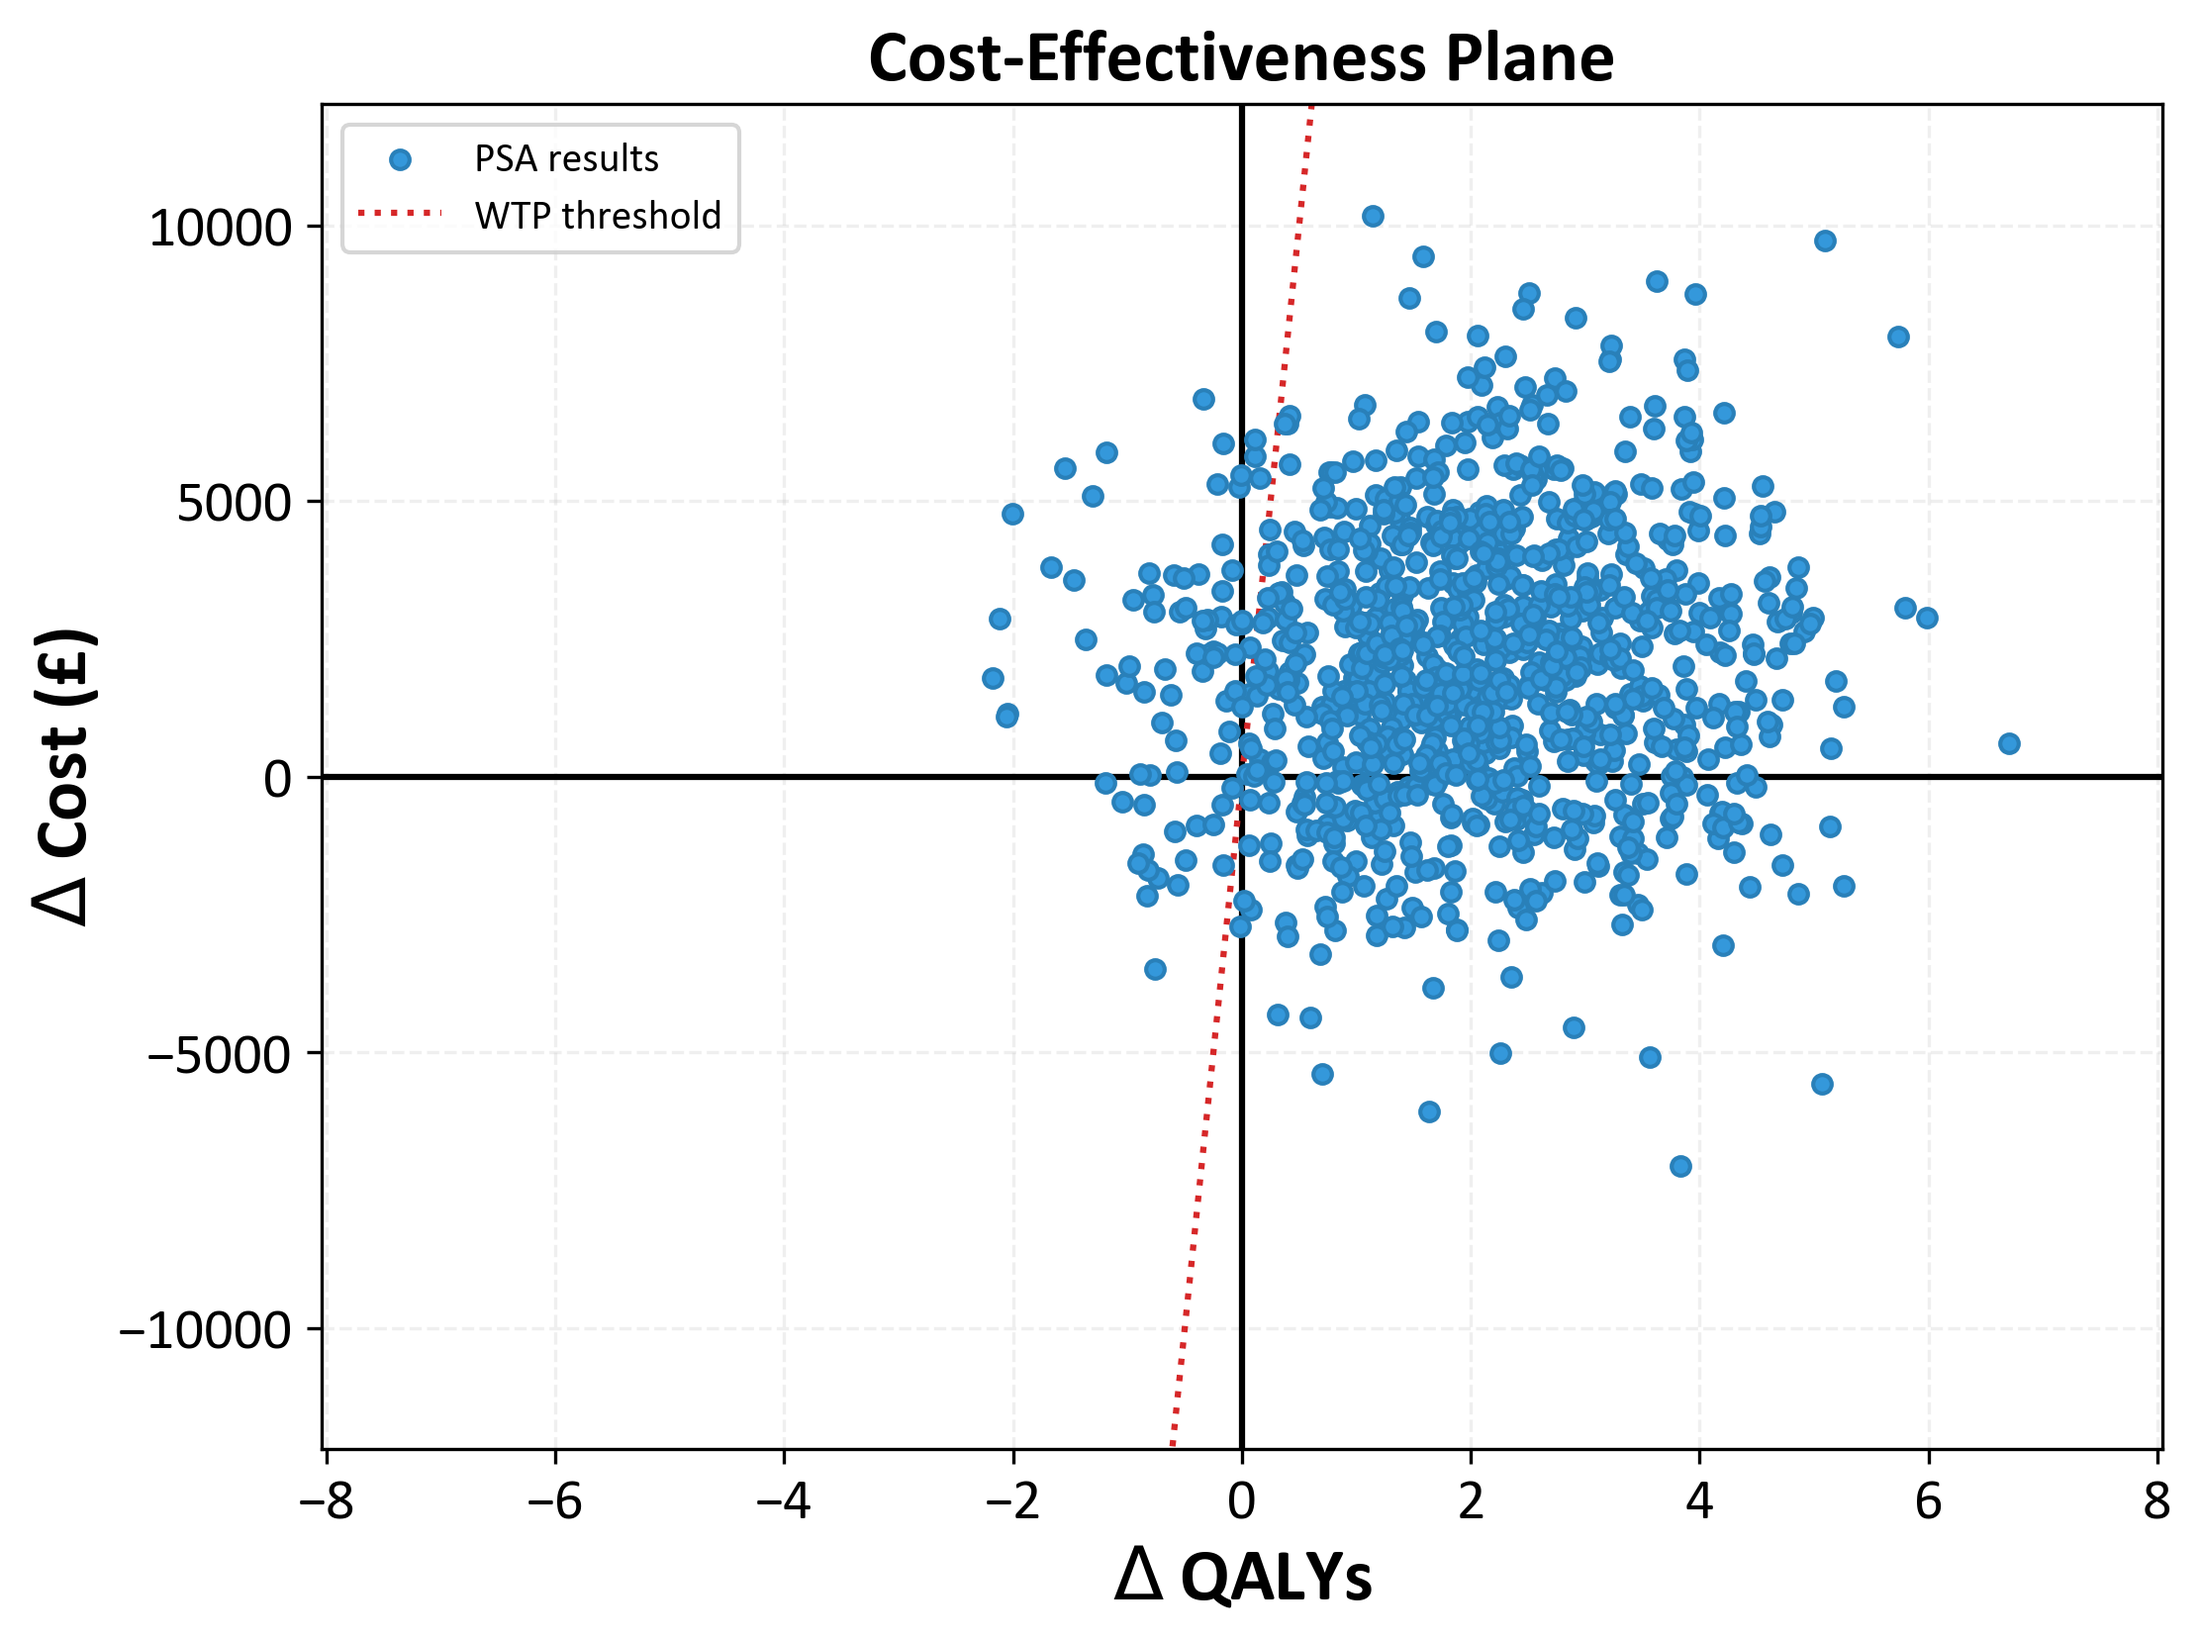
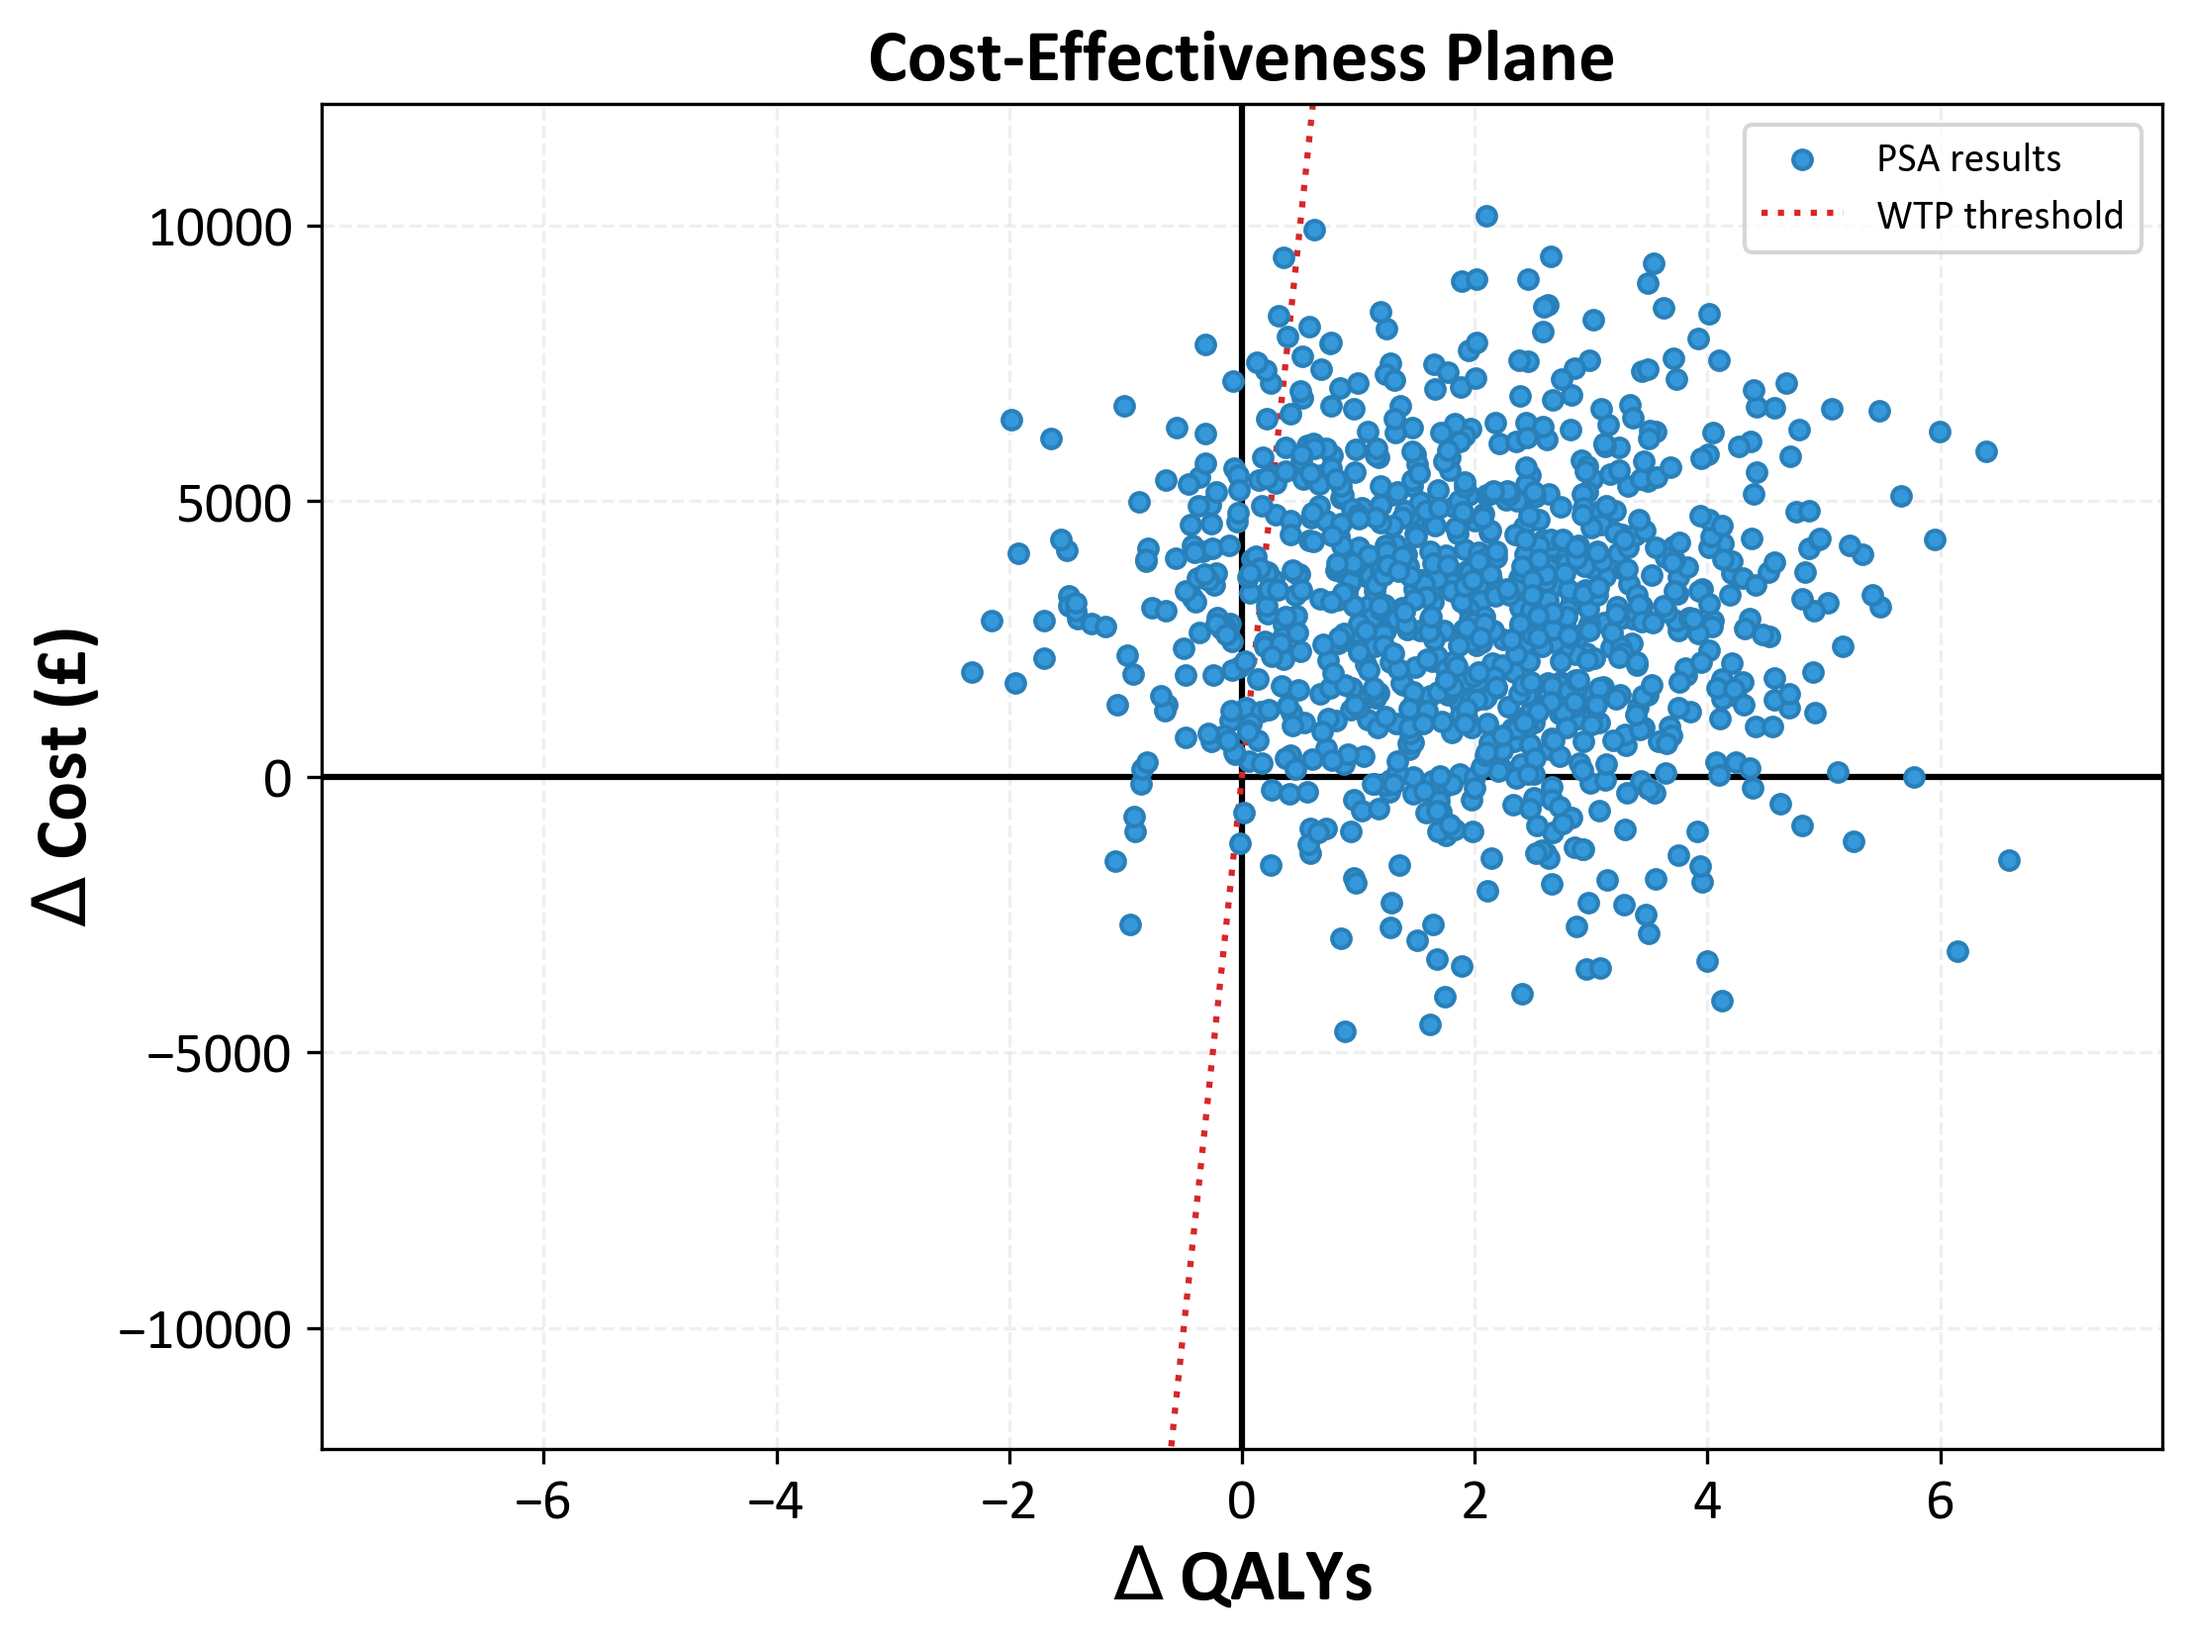
Add files via upload

diff --git a/cost_effectiveness_analysis_PSA.py b/cost_effectiveness_analysis_PSA.py
@@ -19,7 +19,7 @@ import matplotlib.pyplot as plt
 # Define key financial and health-related variables for interventions
 ######################################################################################################################################################
 cost_intervention_A = 10000  # Base cost in GBP for more expensive intervention
-cost_intervention_B = 8000  # Base cost in GBP for standard intervention
+cost_intervention_B = 7000  # Base cost in GBP for standard intervention
 
 qaly_intervention_A = 6 # Quality-Adjusted Life Years for A
 qaly_intervention_B = 4  # Quality-Adjusted Life Years for B
@@ -70,6 +70,9 @@ axes[1].set_ylabel('', fontsize=18, fontweight='bold')
 axes[1].tick_params(axis='both', which='major', labelsize=14)
 axes[1].grid(True, linestyle='--', alpha=0.2)
 plt.tight_layout()
+# Save the figure
+save_folder = 'C:/Users/bc22/OneDrive - King\'s College London/KCL/Projects/HE_code/'
+plt.savefig(save_folder + 'CE_PSA_kde.png', dpi=300, bbox_inches='tight')
 plt.show()
 
 ######################################################################################################################################################
@@ -167,6 +170,9 @@ plt.ylabel(r'$\Delta$ Cost (£)', fontsize=18, fontweight='bold')
 plt.title('Cost-Effectiveness Plane', fontsize=18, fontweight='bold')
 plt.legend()
 plt.grid(True, linestyle='--', alpha=0.2)
+# Save the figure
+save_folder = 'C:/Users/bc22/OneDrive - King\'s College London/KCL/Projects/HE_code/'
+plt.savefig(save_folder + 'CE_plane_PSA.png', dpi=300, bbox_inches='tight')
 plt.show()
 
 ######################################################################################################################################################
